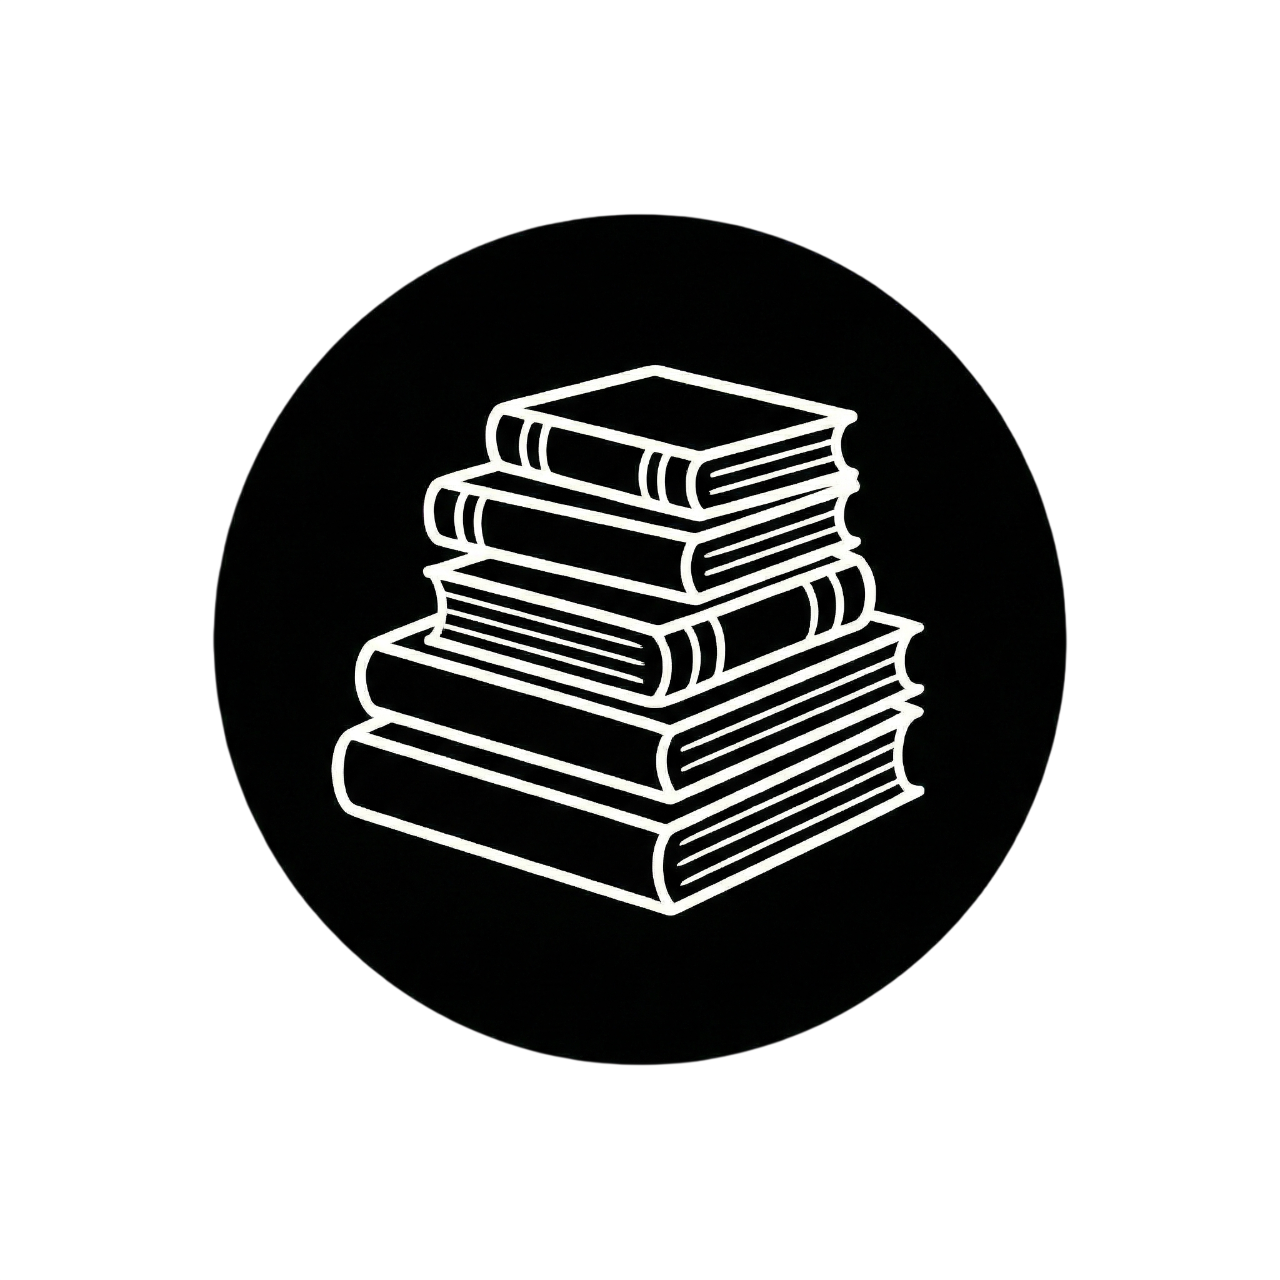
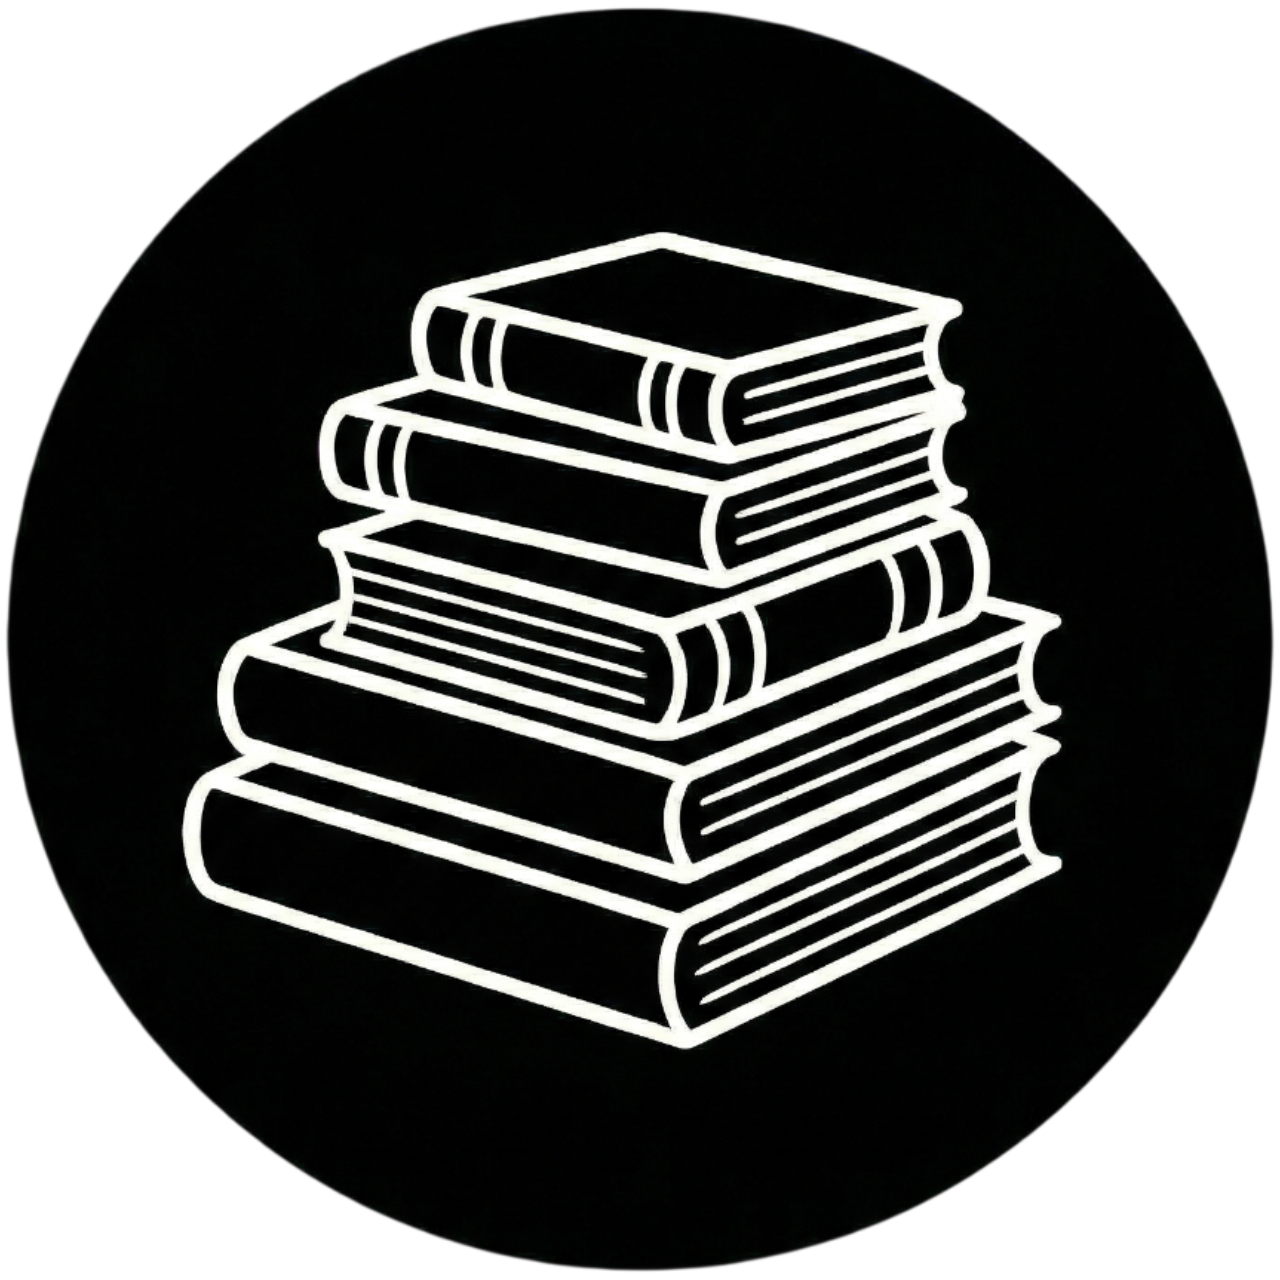
파비콘 설정 수정 및 로컬 개발 환경 DNS 문제 해결
- package.json: Node.js DNS IPv4 우선 옵션 추가
- layout.tsx: 아이콘 크기 설정 수정 (1280x1280)
- favicon.ico 제거 (불필요)
- icon.png, Sidebar.tsx 업데이트

🤖 Generated with [Claude Code](https://claude.com/claude-code)

diff --git a/frontend/src/components/layout/Sidebar.tsx b/frontend/src/components/layout/Sidebar.tsx
@@ -273,7 +273,7 @@ export function Sidebar({
               <img
                 src="/icon.png"
                 alt="Web Collector"
-                className="w-14 h-14 rounded-lg"
+                className="w-20 h-20 rounded-lg"
               />
               <span className="text-sidebar-foreground text-lg font-semibold">
                 Web Collector

diff --git a/frontend/src/app/layout.tsx b/frontend/src/app/layout.tsx
@@ -15,8 +15,7 @@ export const metadata: Metadata = {
   description: "Your personal bookmark manager",
   icons: {
     icon: [
-      { url: "/icon.png", sizes: "256x256", type: "image/png" },
-      { url: "/favicon.ico", sizes: "32x32" },
+      { url: "/icon.png", sizes: "1280x1280", type: "image/png" },
     ],
     apple: "/icon.png",
   },
